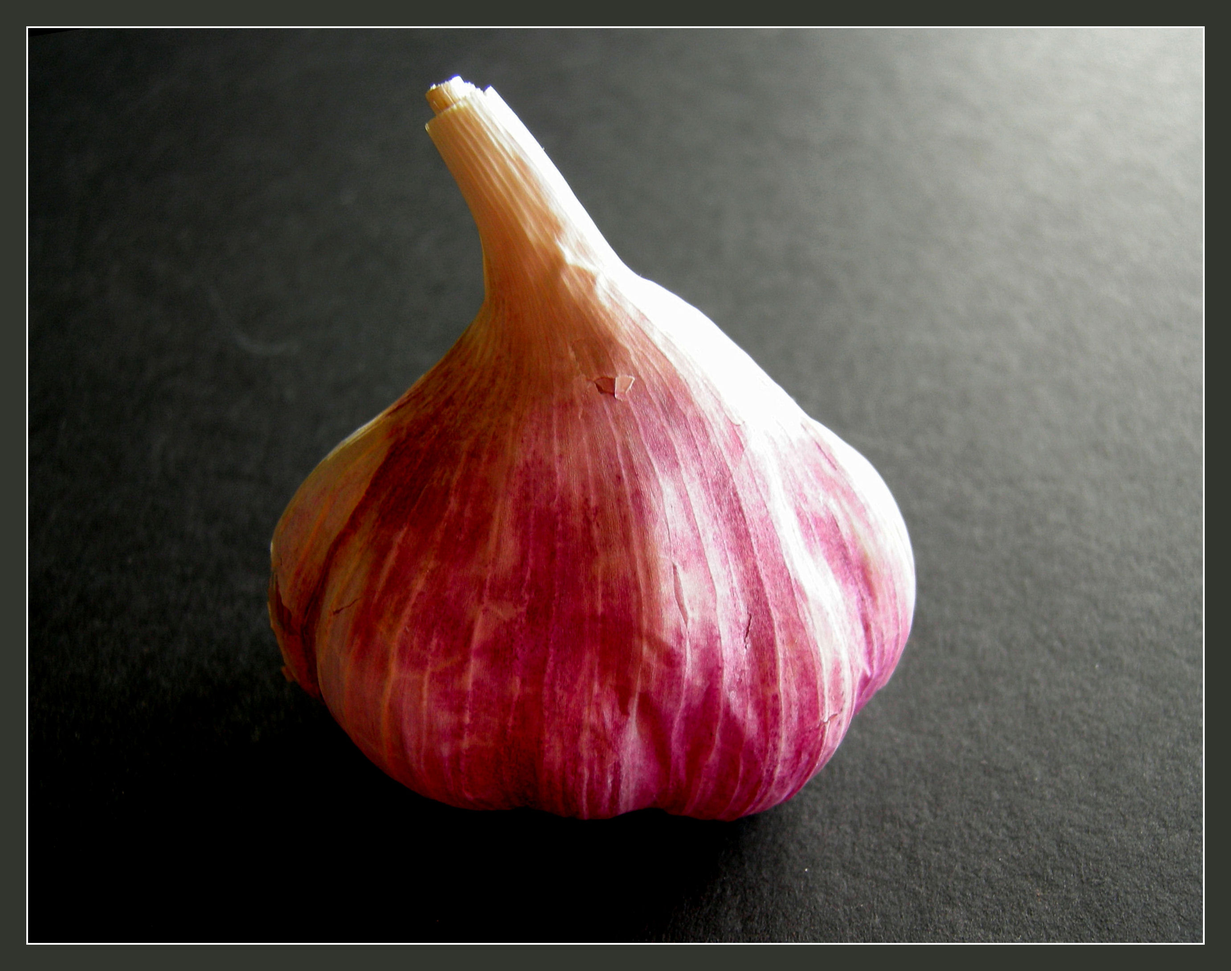
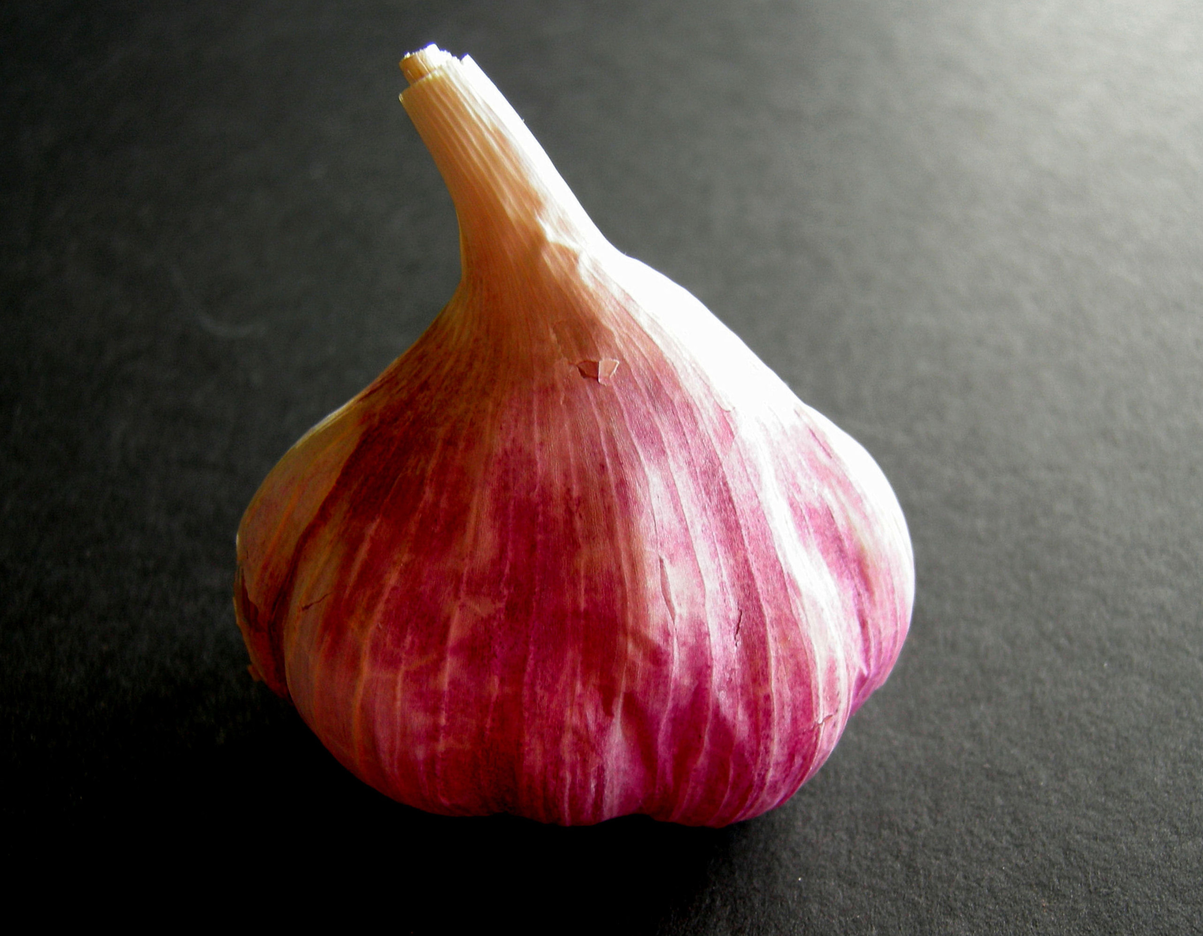
Fixed title image/margin

Changed region(s): [[0.0, 0.0, 1.0, 1.0], [0.5911, 0.3405, 0.6222, 0.3714], [0.56, 0.3095, 0.5911, 0.3405]]

diff --git a/Cookbook.tex b/Cookbook.tex
@@ -32,7 +32,7 @@
 \rmfamily
 
 \begin{titlepage}
-    \newgeometry{margin=0in}
+    \newgeometry{margin=0in,hmargin=-12pt}
     \begin{overpic}[height=\paperheight,tics=1]{cover.jpg}
         \put(6,6){\Huge\bf\color{white} Cookbook 2013}
         \put(6.85,5.5){\Large\bf\color{white} Chase Seibert}
@@ -56,5 +56,4 @@
 
 \end{document}
 
-- title pages images no border, and scale to exactly 9inx7in
 - list of figures
